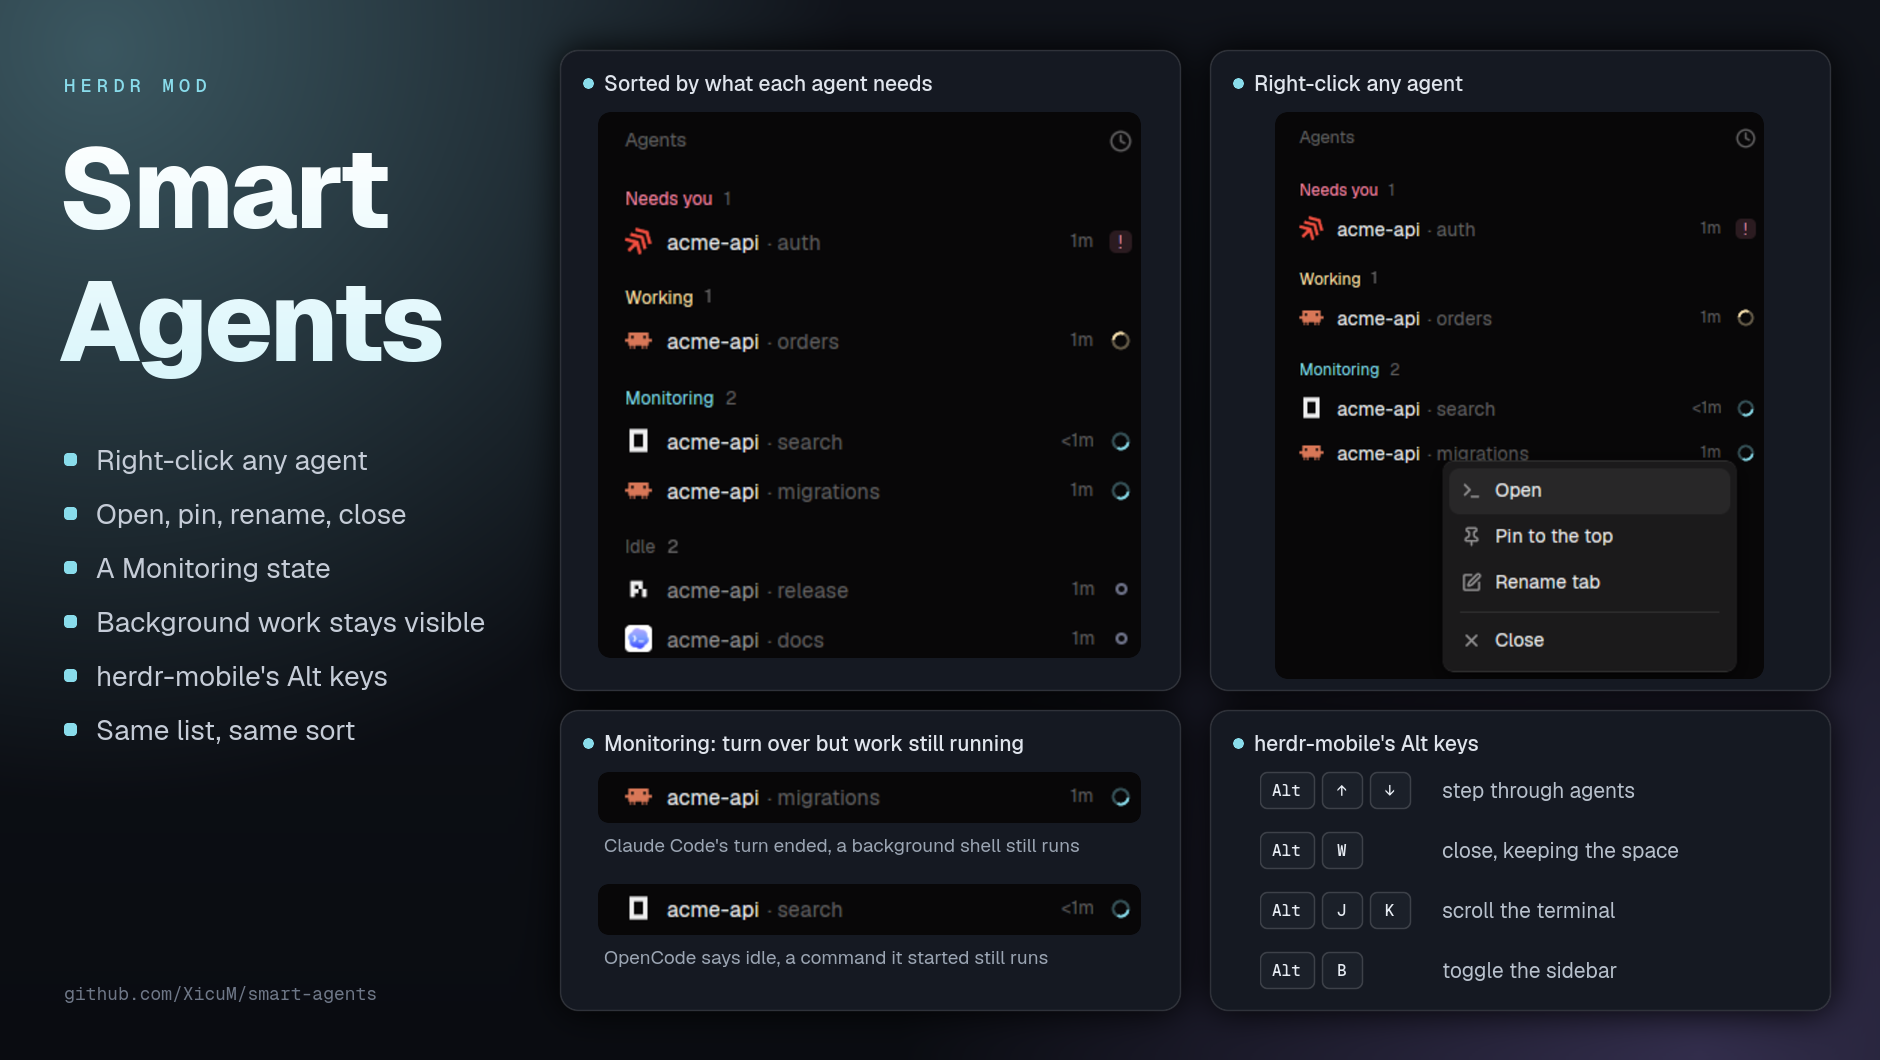
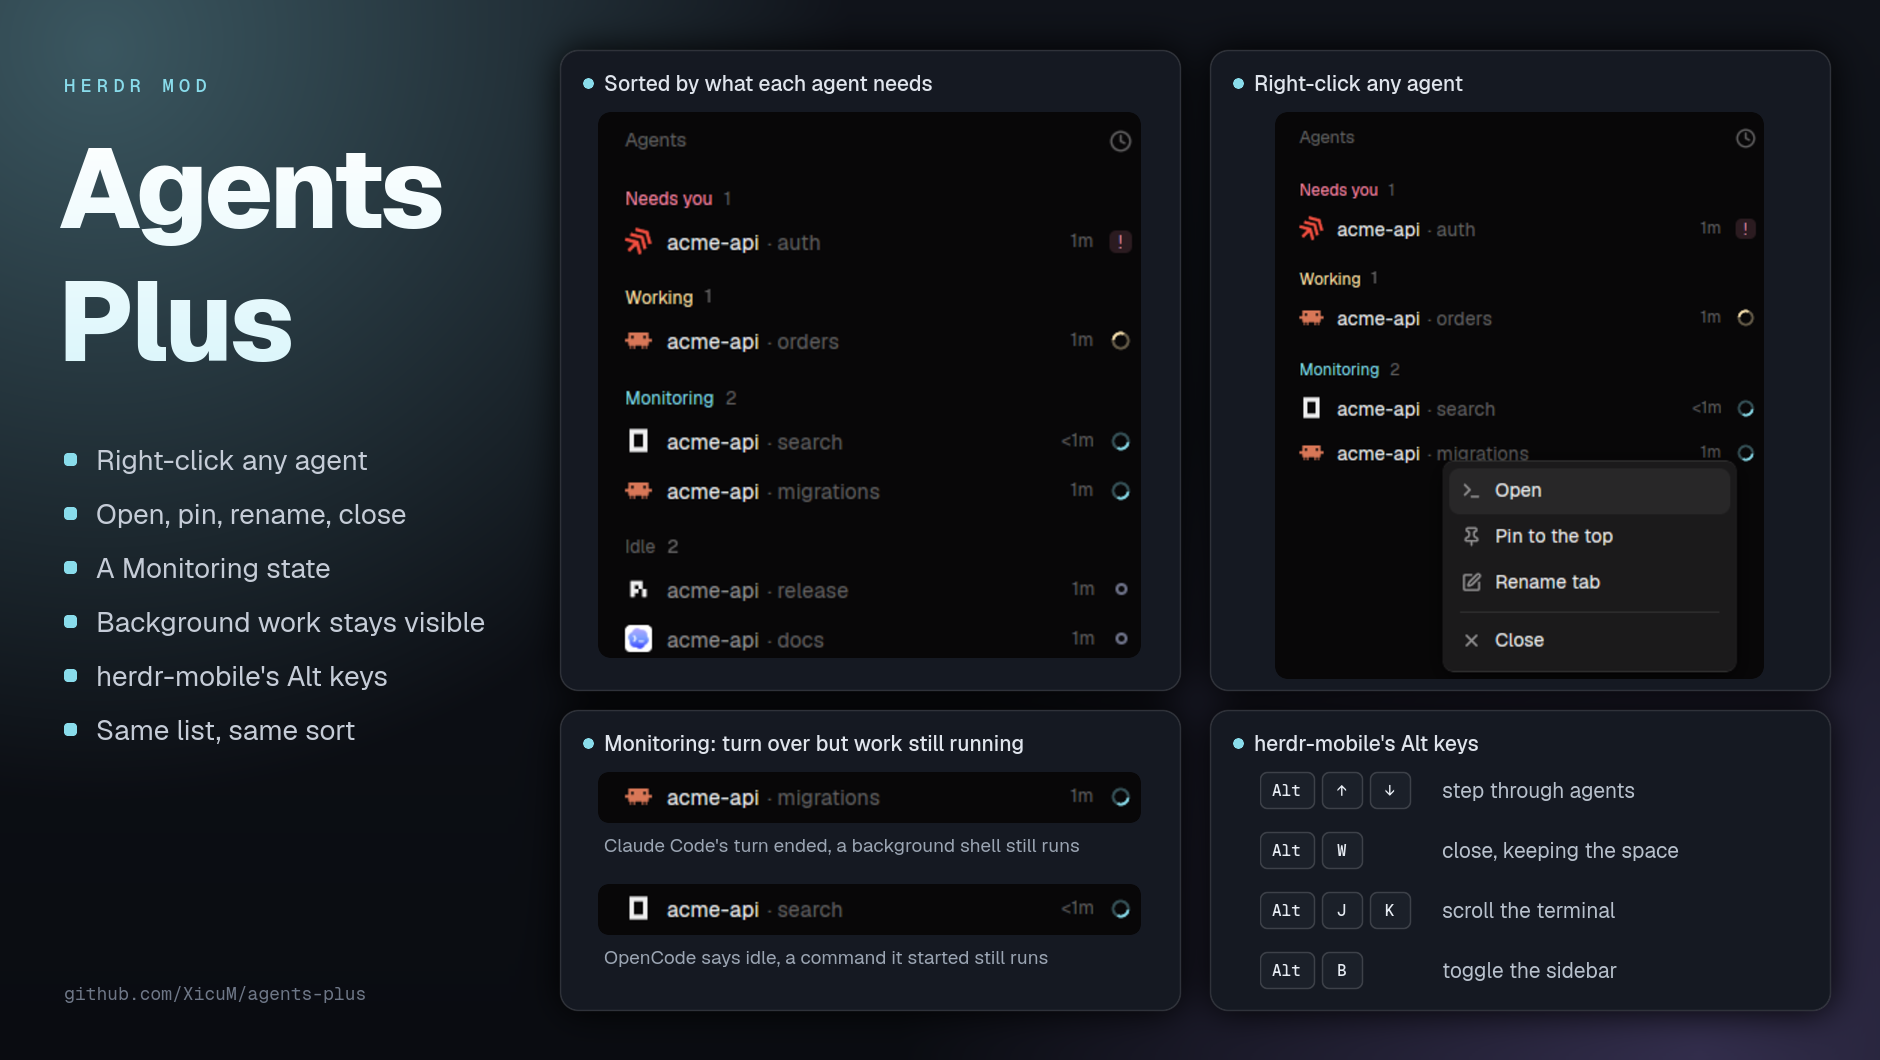
Rename Smart Agents to Agents Plus (mod id agents-plus)
It adds to Herdr's agents list rather than making agents smarter.

Changed region(s): [[0.0309, 0.1245, 0.2468, 0.3736], [0.1234, 0.934, 0.1851, 0.9651]]

diff --git a/mods/agents-plus/main.js b/mods/agents-plus/main.js
@@ -244,7 +244,7 @@ export default class Agents extends View {
 
   // Right-click on an agent: like the spaces menu. Close ends the agent's pane, or a sub-agent's terminal.
   menu(address) {
-    openOverlay({ mod: "smart-agents", kind: "popup", width: 200, height: 160, props: { agentMenu: address } });
+    openOverlay({ mod: "agents-plus", kind: "popup", width: 200, height: 160, props: { agentMenu: address } });
   }
 
   agentMenu(t) {
@@ -561,7 +561,7 @@ export default class Agents extends View {
                 .text_size(11)
                 .text_color(t.dim)
                 .hover((s) => s.text_color(t.foreground))
-                .on_click(() => openOverlay({ mod: "smart-agents", kind: "popup", width: 200, height: 140, props: { sortMenu: true } }))
+                .on_click(() => openOverlay({ mod: "agents-plus", kind: "popup", width: 200, height: 140, props: { sortMenu: true } }))
                 .tooltip(`Sort agents: ${sort.label}`)
                 .child(svg(`mods/workspace-chrome/${sort.icon}.svg`).size(14)),
             ),

diff --git a/RECIPE.md b/RECIPE.md
@@ -1,8 +1,8 @@
-# Smart Agents
+# Agents Plus
 
-Herdr's agents list, smarter. Right-click any agent to open, pin, rename or close it, as you can a space. A new **Monitoring** state shows the agents whose turn is over but whose work isn't: Claude Code's background shells, or a command OpenCode left running while it says idle, so they no longer look idle. And herdr-mobile's Alt keys: Alt+↑/↓ steps through agents, Alt+W closes, Alt+J/K scroll.
+Herdr's agents list, plus more. Right-click any agent to open, pin, rename or close it, as you can a space. A new **Monitoring** state shows the agents whose turn is over but whose work isn't: Claude Code's background shells, or a command OpenCode left running while it says idle, so they no longer look idle. And herdr-mobile's Alt keys: Alt+↑/↓ steps through agents, Alt+W closes, Alt+J/K scroll.
 
-![Smart Agents](preview.png)
+![Agents Plus](preview.png)
 
 ## What you see
 
@@ -28,7 +28,7 @@ Herdr's agents list, smarter. Right-click any agent to open, pin, rename or clos
   | Alt+B | `layout.toggle:sidebar` |
   | Alt+M | `app.settings {section: "machines"}` |
   | Alt+G | `mod.open:picker` (the sidebar's search) |
-  | Alt+W | `smart-agents.close`: `pane.close`, keeping the space when it is its last agent pane |
+  | Alt+W | `agents-plus.close`: `pane.close`, keeping the space when it is its last agent pane |
   | Alt+T, Alt+N | `tab.new` |
   | Alt+↑ / Alt+↓ | `agent.prev` / `agent.next` |
   | Alt+K, Alt+PageUp / Alt+J, Alt+PageDown | `terminal.scroll {pages: -1 / 1}` (terminal section) |
@@ -38,14 +38,14 @@ Herdr's agents list, smarter. Right-click any agent to open, pin, rename or clos
 
 ## Built from
 
-- **One mod**, `mods/smart-agents/`: a clone of Herdr's shipped `agents` mod (`mod.clone {name: "agents", as: "smart-agents"}`, version 0.1.16) with these changes:
-  - `menu(address)` opens itself as a popup: `openOverlay({mod: "smart-agents", kind: "popup", width: 200, height: 160, props: {agentMenu: address}})`, the way the shipped mod opens its sort popup (`props: {sortMenu: true}`).
+- **One mod**, `mods/agents-plus/`: a clone of Herdr's shipped `agents` mod (`mod.clone {name: "agents", as: "agents-plus"}`, version 0.1.16) with these changes:
+  - `menu(address)` opens itself as a popup: `openOverlay({mod: "agents-plus", kind: "popup", width: 200, height: 160, props: {agentMenu: address}})`, the way the shipped mod opens its sort popup (`props: {sortMenu: true}`).
   - `init` returns early for `agentMenu` copies as for `sortMenu`; `render` draws `agentMenu(t)` for them.
   - `.on_mouse_down("right", () => this.menu(address))` on the expanded row, the collapsed row and the sub-agent row.
-  - The sort popup's `openOverlay` names `smart-agents` (done by `mod.clone`).
+  - The sort popup's `openOverlay` names `agents-plus` (done by `mod.clone`).
   - Monitoring: `RANK.monitoring = 1.5`, `SECTION`/`SECTION_STATUS` entries for `1.5`, and in `render` the `agents()` list mapped to `status: "monitoring"` for addresses whose `terminals()` entry matches (`monitoring(k)`: a `done`/`idle` agent with a `records` entry still `working`, or a `working` one whose `report.msg` matches `/still running/i`, or a `done`/`idle` one marked `busy`); `kidStatus` does the same for sub-agents without a pane. `t` is `{ ...theme(), monitoring: "#89dceb" }`, so `t[status]` colors headers and fold counts; `status()` draws the spinner for it.
   - In `init`, one `cx.spawn` task loops on `nextCommand()` and handles `"close"` with `closePane()`.
-- **The layout**: the `agents` block of the person's personal layout gets `content: {mod: "smart-agents"}` instead of `agents`. On one of Herdr's own layouts, clone it first (`layout.clone`).
+- **The layout**: the `agents` block of the person's personal layout gets `content: {mod: "agents-plus"}` instead of `agents`. On one of Herdr's own layouts, clone it first (`layout.clone`).
 - **`keys.json`**: the table above, merged into the person's keys.
 
 ## Watch out
@@ -59,7 +59,7 @@ Herdr's agents list, smarter. Right-click any agent to open, pin, rename or clos
 
 ## Done when
 
-- `herdr-app check mods/smart-agents` passes and `herdr-app status` shows no errors.
+- `herdr-app check mods/agents-plus` passes and `herdr-app status` shows no errors.
 - The agents list looks and sorts as before; its sort popup still works.
 - A Claude Code agent whose turn ended with a background shell still running (`hc get <t>` shows `done` with a `records` entry in state `working`) sits under Monitoring with a sky-blue spinner; it returns to Idle when the shell finishes.
 - An OpenCode agent asked to run `sleep 90` in the background and wait ends its turn (`hc get <t>` says `idle`) and sits under Monitoring within 5 s while `sleep` runs; it returns to Idle within 5 s of `sleep` ending.
